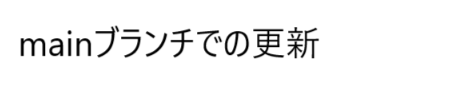
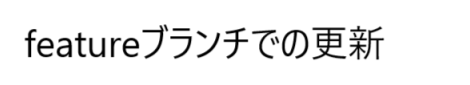
テキストを変更

Changed region(s): [[0.0298, 0.2824, 0.834, 0.7059]]

diff --git a/README.md b/README.md
@@ -5,7 +5,7 @@ mainブランチとfeatureブランチに対して、テキストとバイナリ
 
 # 修正場所
 
-ここは「main」ブランチです
+ここは「feature/another_update」ブランチです
 
 ![画像](image.png)
 
